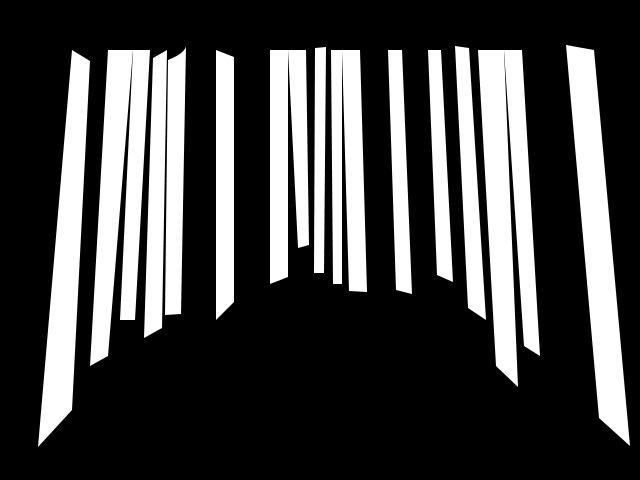
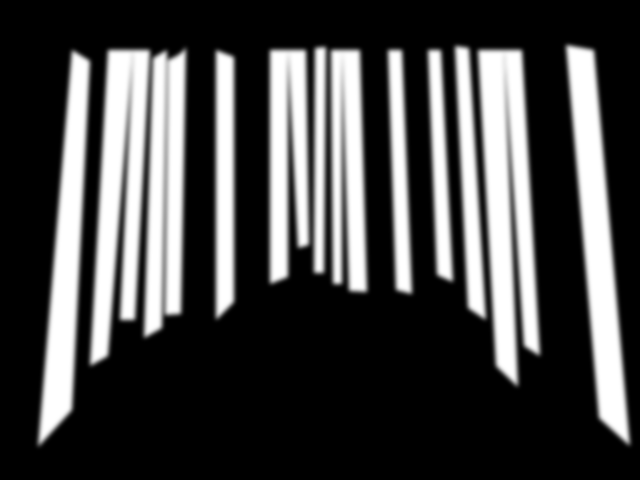
Fixed w/ adam shader

Changed region(s): [[0.4062, 0.0938, 0.8438, 0.8125], [0.0312, 0.0938, 0.375, 0.9375], [0.875, 0.0938, 1.0, 0.9375]]

diff --git a/src/camera.cpp b/src/camera.cpp
@@ -17,7 +17,11 @@ Camera::Camera() {
     setupGUI(); 
     
     radius = cam.getWidth() / 32;
- 
+    
+    for(int i=0;i<N_POLY;i++) {
+        bounds[i] = ofPolyline();
+        active[i] = bounds[i];
+    }
 }
 
 Camera::~Camera() {
@@ -43,26 +47,29 @@ void Camera::draw(ofPoint pos) {
         ofSetLineWidth(4);
         ofSetColor(100, 100, 255);
     for(int i=0;i<N_POLY;i++) {
+        ofPushMatrix();
+        ofScale(2,2);
         bounds[i].draw();
         ofSetColor(100, 255, 100);
         active[i].draw();
+        ofPopMatrix();
         ofSetColor(255);
         ofDrawBitmapString(ofToString(i), bounds[i].getCentroid2D());
-        ofDrawBitmapString(ofToString(getAmplitudeWithinRegion(i),2), bounds[i].getCentroid2D() + ofPoint(0,10));
+        ofDrawBitmapString(ofToString(getAmplitudeWithinRegion()[i],2), bounds[i].getCentroid2D() + ofPoint(0,10));
     }
     ofPopStyle();
     ofPopMatrix();
     
     ofPushMatrix();
     ofTranslate(cam.getWidth()*scale, 0);
-    for(int j=0;j<N_POLY;j++) {
-        vector<float> values = getValues(j,10);
-        for(size_t i=0;i<values.size();i++) {
-            ofRect(0,0,values[i + (j*10)]*100,5);
-            ofLog() << i << ":" << values[i];
-            ofTranslate(0,5);
-        }
-    }
+//    for(int j=0;j<N_POLY;j++) {
+//        vector<float> values = getValues(j,10);
+//        for(size_t i=0;i<values.size();i++) {
+//            ofRect(0,0,values[i + (j*10)]*100,5);
+//            ofLog() << i << ":" << values[i];
+//            ofTranslate(0,5);
+//        }
+//    }
     ofPopMatrix();
     gui->draw();
 }
@@ -85,7 +92,7 @@ Boundary setup
 ******************************/
 
 void Camera::addPoint(int currentPoly, ofPoint point) {
-    ofPoint p = point / scale;
+    ofPoint p = (point / scale) * div;
     bounds[currentPoly].addVertex(p);
     active[currentPoly] = bounds[currentPoly];
     
@@ -113,7 +120,10 @@ void Camera::resetCircle() {
 
 void Camera::setupCamera() {
 #ifdef FIREWIRE
-      cam.setup();
+    cam.setup();
+    cam.flushBuffer();
+//    cam.setSize(320,240);
+    cam.setFrameRate(7.5);
     cout << "camera: " << cam.getLibdcCamera() << endl;
     cout << "camera: " << cam.getImageType() << endl;
     frame.allocate(cam.getWidth(),cam.getHeight(),cam.getImageType());
@@ -151,8 +161,9 @@ void Camera::setupFlow() {
 }
 
 void Camera::updateFlow(ofPixels * _frame) {
-    flow.setWindowSize(16);
+//    flow.setWindowSize(16);
 #ifdef FIREWIRE
+    frame.resize(320, 240);
     flow.calcOpticalFlow(frame);
 #else
     flow.calcOpticalFlow(cam);
@@ -207,28 +218,32 @@ ofVec2f Camera::getAttraction(ofPoint &point, ofPoint &origin) {
 
 vector<float> Camera::getValues(int poly, int _count) {
     std::vector<float> v;
-    long distance;
-    for(size_t i=0;i<active[poly].size();i++) {
-        distance = bounds[poly].getCentroid2D().squareDistance(active[poly][i]);
-        v.push_back(distance);
-    }
-    
-    if(v.size()>2) {
-        vector<float>::iterator min_v = std::min_element(v.begin(),v.end());
-        vector<float>::iterator max_v = std::max_element(v.begin(),v.end());
-        long mn = min_v[0];
-        long mx = max_v[0];
-        
-        for(size_t i=0;i<v.size();i++) {
-            v[i] = (v.at(i) - mn) / (mx - mn);
-        }
-    }
-    
+//    long distance;
+//    for(size_t i=0;i<active[poly].size();i++) {
+//        distance = bounds[poly].getCentroid2D().squareDistance(active[poly][i]);
+//        v.push_back(distance);
+//    }
+//    
+//    if(v.size()>2) {
+//        vector<float>::iterator min_v = std::min_element(v.begin(),v.end());
+//        vector<float>::iterator max_v = std::max_element(v.begin(),v.end());
+//        long mn = min_v[0];
+//        long mx = max_v[0];
+//        
+//        for(size_t i=0;i<v.size();i++) {
+//            v[i] = (v.at(i) - mn) / (mx - mn);
+//        }
+//    }
+//    
     return v;
 }
 
-ofVec2f Camera::getAmplitudeWithinRegion(int poly) {
-    return flow.getAverageFlowInRegion(bounds[poly].getBoundingBox());
+vector<ofVec2f> Camera::getAmplitudeWithinRegion() {
+    vector<ofVec2f> v;
+    for(int i=0;i<N_POLY;i++) {
+        v.push_back(flow.getAverageFlowInRegion(active[i].getBoundingBox()));
+    }
+    return v;
 }
 
 

diff --git a/src/testApp.cpp b/src/testApp.cpp
@@ -60,6 +60,7 @@ void testApp::draw(){
 
 void testApp::updateGraphics() {
     cam->update();
+    part->setVectors(cam->getAmplitudeWithinRegion());
     part->update();
     
     // Draw particle system
@@ -73,11 +74,11 @@ void testApp::updateGraphics() {
     ofBackground(0);
     for(int i=0;i<N_PROJECTOR;i++) {
         ofPushMatrix();
-        ofEnableAlphaBlending();
+      //  ofEnableAlphaBlending();
         ofTranslate(i*pw, 0);
 //        for(int j=N_LAYER;j>0;j--) {
             //ofSetColor(255,255,255,j/N_LAYER * 255);
-            pview[i]->getLayer(0).draw(0,0);
+            pview[i]->getLayer(0)->draw(0,0);
   //      }
         ofPopMatrix();
     }
@@ -88,7 +89,6 @@ void testApp::updateGraphics() {
     mask.getTextureReference().bind();
     
     fbo.begin();
-    //ofClear(0,100);
     alpha.begin();
     
     alpha.setUniformTexture("tex0",cont,cont.getTextureReference().getTextureData().textureID);
@@ -160,7 +160,7 @@ void testApp::updateEdit() {
         canvas. begin();
         ofClear(0);
         ofSetColor(255,80,80);
-        pview[editCanvas]->getLayer(editLayer).draw(0,0);
+        pview[editCanvas]->getLayer(editLayer)->draw(0,0);
         
         if(save)  {
          ofBackground(0);
@@ -269,7 +269,7 @@ void testApp::keyPressed(int key){
 //        case '[':
             //exportSettings(); break;
         case ']':
-            reloadSettings(); break;
+            reloadSettings(); ofClear(0); break;
         case 'c':
             cam->closePoints(editPoly); break;
         case 'v':
@@ -333,7 +333,7 @@ void testApp::mouseDragged(int x, int y, int button){
 
 //--------------------------------------------------------------
 void testApp::windowResized(int w, int h){
-
+    ofClear(0); 
 }
 
 //--------------------------------------------------------------

diff --git a/src/particles.cpp b/src/particles.cpp
@@ -29,6 +29,7 @@ Particles::Particles(ofRectangle _bounds) {
     curY = world.getHeight()/4;
     setupMidi();
     setupParticles();
+    camVec.clear();
 }
 
 Particles::~Particles() {
@@ -98,7 +99,7 @@ void Particles::setupParticleRects() {
 
 void Particles::draw() {
     ofEnableAlphaBlending();
-    ofEnableBlendMode(OF_BLENDMODE_ADD);
+ //   ofEnableBlendMode(OF_BLENDMODE_ADD);
     for(size_t i = 0; i < fireParticles.size(); ++i) {
 #ifdef ONE_FBO
 		if(i != 0) continue;
@@ -151,7 +152,7 @@ void Particles::update() {
 	
 	size_t targetColumn = ofMap(intensityVector.x, -1, 1, 0, fireParticles.size());
 	for(size_t i = 0; i < stokeParams.size(); ++i) {
-		float columnTarget = i == targetColumn ? intensityVector.y : 0;
+		float columnTarget = camVec[i].y*18;
 		
 		if(stokeParams[i].intensity < columnTarget) {
 			stokeParams[i].intensity = ofLerp(stokeParams[i].intensity, columnTarget, 0.5);
@@ -203,12 +204,12 @@ void Particles::update() {
 	bgColor.g += flickerAmount * 0.5;
 	bgColor.lerp(targetColor, 0.15);
 	
-#ifdef CONSTANT_INTENSITY
+//#ifdef CONSTANT_INTENSITY
 	for(size_t i = 0; i < stokeParams.size(); ++i) {
-		stokeParams[i].intensity = CONSTANT_INTENSITY;
-		stokeParams[i].spookyVisibility = CONSTANT_INTENSITY;
+		stokeParams[i].intensity = 0.9;
+		stokeParams[i].spookyVisibility = 0.9;
 	}
-#endif
+//#endif
     
     updateMidi();
 }
@@ -237,6 +238,10 @@ void Particles::changeIntensity(ofPoint pnt) {
 							  ofMap(pnt.y, 0, 480, 1, 0, true));
 }
 
+
+void Particles::setVectors(vector<ofVec2f> vec) {
+    camVec = vec;
+}
 
 ///////////////////////////////////
 ////////// MIDI STUFFS  ///////////

diff --git a/src/particles.h b/src/particles.h
@@ -16,10 +16,9 @@
 #include "ofxMidi.h"
 #include "FireParticles.h"
 
-
-const ofColor spookyBlue(0, 10, 50);
+const ofColor spookyBlue(0, 10, 50); // 0 10 50
 //const ofColor fireRed(50, 30, 0);
-const ofColor fireRed(155, 105, 40);
+const ofColor fireRed(155, 105, 40); //155 105 40
 
 struct StokeParams {
 	float intensity;
@@ -47,11 +46,11 @@ public:
     void changeIntensity(ofPoint pnt);
     bool showSpooky(int which);
 	void setupParticleRects();
+    void setVectors(vector<ofVec2f> vec);
 	
     
 private:
-//    ofxBox2d box2d;
-    ofRectangle world;
+    ofxBox2d box2d;    ofRectangle world;
 //    vector<ofxBox2dCircle> particles;
 //    FireParticles fireParticles;
     //vector<FireParticles> * particles;
@@ -79,6 +78,8 @@ private:
 	ofShader spookyShader;
 	ofTexture spookyTex;
 	vector<ofVec2f> spookyVerts;
+    
+    vector<ofVec2f> camVec;
     
     
 };

diff --git a/src/camera.h b/src/camera.h
@@ -36,12 +36,12 @@ public:
     
     ofPolyline* getCircle(int poly);
     vector<float> getValues(int poly, int _count);
-    ofVec2f getAmplitudeWithinRegion(int poly);
+    vector<ofVec2f> getAmplitudeWithinRegion();
     
     
     
     
-    
+    float div = .5;
     ofRectangle getBounds();
     void resetCircle();
     // Camera technical shizzle

diff --git a/src/Viewport.cpp b/src/Viewport.cpp
@@ -57,9 +57,9 @@ void Viewport::resetLayer(int layer) {
 
 }
 
-ofImage Viewport::getLayer(int layer) {
-    if(layer < N_LAYER) return layers[layer];
-    else return layers[0];
+ofImage * Viewport::getLayer(int layer) {
+    if(layer < N_LAYER) return &layers[layer];
+    else return &layers[0];
 }
 
 void Viewport::setCurrentLayer(float normalized) {

diff --git a/src/Viewport.h b/src/Viewport.h
@@ -24,7 +24,7 @@ public:
     void update();
     
     void setLayer(int layer, ofPixels * mask);
-    ofImage getLayer(int layer);
+    ofImage * getLayer(int layer);
     
     void setCurrentLayer(float normalized);
     void resetLayer(int layer);
